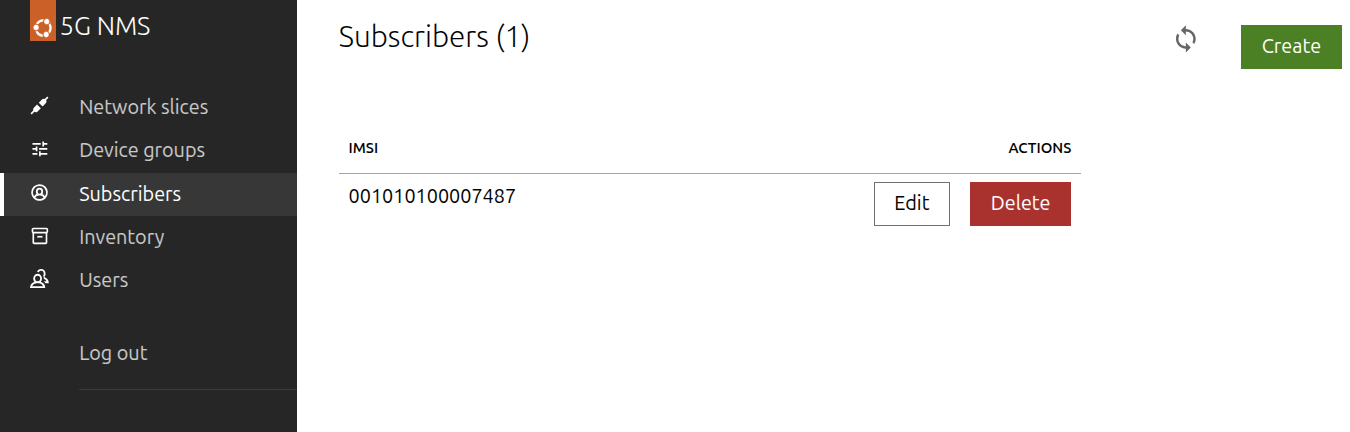
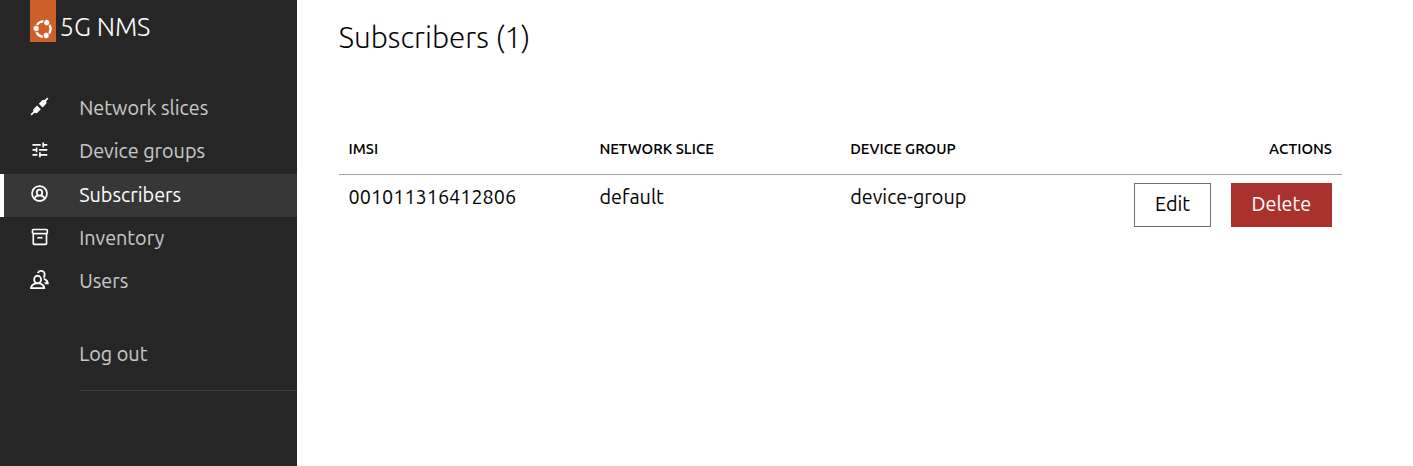
chore: update tutorials after SIM generation automation feature (#103)

diff --git a/docs/tutorials/getting_started.md b/docs/tutorials/getting_started.md
@@ -382,15 +382,12 @@ You should see the following device group created:
 :align: center
 ```
 
-Create a subscriber with the following attributes:
-- IMSI: `001010100007487`
-- OPC: `981d464c7c52eb6e5036234984ad0bcf`
-- Key: `5122250214c33e723a5dd523fc145fc0`
-- Sequence Number: `16f3b3f70fc2`
+Navigate to Subscribers and click on Create. Fill in the following:
+
 - Network Slice: `default`
 - Device Group: `device-group`
 
-You should see the following subscriber created:
+Click on the two `Generate` buttons to automatically fill in the IMSI, OPC, Key and Sequence Number. After clicking on the `Submit` button you should see the subscriber created:
 
 ```{image} ../images/getting_started_subscriber.png
 :alt: NMS Subscriber

diff --git a/docs/tutorials/mastering.md b/docs/tutorials/mastering.md
@@ -531,12 +531,11 @@ You should see the following device group created:
 We will now add a subscriber with the IMSI that was provided to the gNB simulator.
 Navigate to Subscribers and click on Create. Fill in the following:
 
-- IMSI: `001010100007487`
-- OPC: `981d464c7c52eb6e5036234984ad0bcf`
-- Key: `5122250214c33e723a5dd523fc145fc0`
-- Sequence Number: `16f3b3f70fc2`
 - Network Slice: `Tutorial`
 - Device Group: `device-group`
+- IMSI: `0100007487`
+
+To automatically fill in the OPC, Key and Sequence Number, click on the `Generate` button in the `Authentication` section of the modal.
 
 ## 7. Integrate SD-Core with the Canonical Observability Stack (COS)
 
